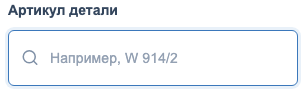
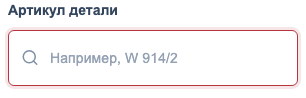
design: add restrained red accents to the catalog

diff --git a/src/app/App.module.scss b/src/app/App.module.scss
@@ -5,9 +5,9 @@
 }
 .header {
   height: 76px;
-  background: #172437;
+  background: #20252c;
   color: #fff;
-  border-bottom: 1px solid #26374d;
+  border-bottom: 1px solid #343c47;
 }
 .headerInner,
 .main,
@@ -36,8 +36,8 @@
   font-size: 14px;
   font-weight: 450;
   letter-spacing: 1.8px;
-  color: #9aadc5;
-  border-left: 1px solid #465369;
+  color: #a7afb9;
+  border-left: 1px solid #49515c;
   padding-left: 11px;
 }
 .currentPage {
@@ -45,7 +45,7 @@
   display: flex;
   align-items: center;
   gap: 10px;
-  border-bottom: 3px solid #7eb3ef;
+  border-bottom: 3px solid #e68b91;
   padding-inline: 4px;
   color: #e1ebf8;
   font-size: 15px;
@@ -80,8 +80,8 @@
   font-weight: 500;
   color: #fff;
   &:hover {
-    background: #24374f;
-    border-color: #7494b6;
+    background: #303740;
+    border-color: #a86d75;
   }
 }
 .main {
@@ -133,7 +133,7 @@
     align-items: center;
     gap: 8px;
     min-height: 44px;
-    color: #245ea3;
+    color: var(--accent);
   }
 }
 .footer {

diff --git a/src/features/parts/searchParts/SearchPartsFeature.module.scss b/src/features/parts/searchParts/SearchPartsFeature.module.scss
@@ -50,8 +50,8 @@
   border-radius: 6px;
   background: #fff;
   &:focus-within {
-    border-color: #3b78bb;
-    box-shadow: 0 0 0 3px #3b82c41c;
+    border-color: var(--accent);
+    box-shadow: 0 0 0 3px var(--accent-ring);
   }
   > svg {
     width: 18px;
@@ -123,9 +123,9 @@
       width: 11px;
     }
     &:hover {
-      color: #245ea3;
-      border-color: #9bb8d8;
-      background: #eef5fd;
+      color: var(--accent);
+      border-color: var(--accent-border);
+      background: var(--accent-soft);
     }
   }
 }
@@ -171,7 +171,7 @@
     width: 12px;
   }
   &:hover {
-    color: #245ea3;
+    color: var(--accent);
   }
 }
 .demoStatus {
@@ -245,9 +245,9 @@
     border-color: #d5e7df;
   }
   &.active {
-    color: #245ea3;
-    background: #eaf2fc;
-    border-color: #d3e2f5;
+    color: var(--accent);
+    background: var(--accent-soft);
+    border-color: var(--accent-border);
   }
 }
 .countBadge {

diff --git a/src/app/global.scss b/src/app/global.scss
@@ -51,7 +51,11 @@
 
 :root {
   --surface: #fff;
-  --accent: #245ea3;
+  --accent: #b63540;
+  --accent-hover: #922b34;
+  --accent-soft: #fff3f4;
+  --accent-border: #eac2c7;
+  --accent-ring: #b635401f;
   --border: #dce3eb;
   --muted: #64748b;
   font-family: "Golos Text", Arial, sans-serif;
@@ -108,7 +112,7 @@ a:focus-visible,
 input:focus-visible,
 select:focus-visible,
 [tabindex]:focus-visible {
-  outline: 3px solid #3b82c4;
+  outline: 3px solid var(--accent);
 }
 @media (prefers-reduced-motion: reduce) {
   *,

diff --git a/index.html b/index.html
@@ -3,7 +3,7 @@
   <head>
     <meta charset="UTF-8" />
     <meta name="viewport" content="width=device-width, initial-scale=1.0" />
-    <meta name="theme-color" content="#172437" />
+    <meta name="theme-color" content="#20252c" />
     <meta
       name="description"
       content="Подбор автозапчастей и аналогов Favorit-parts по артикулу и производителю"

diff --git a/src/features/parts/searchParts/ui/OffersPagination.module.scss b/src/features/parts/searchParts/ui/OffersPagination.module.scss
@@ -26,11 +26,11 @@
   border: 1px solid #dce4ee;
   border-radius: 5px;
   background: #fff;
-  color: #456789;
+  color: #526173;
   &:hover:not(:disabled) {
-    color: #245ea3;
-    border-color: #9cb9d9;
-    background: #f3f7fc;
+    color: var(--accent);
+    border-color: var(--accent-border);
+    background: var(--accent-soft);
   }
   &:disabled {
     opacity: 0.35;

diff --git a/src/entities/parts/ui/OfferRow.module.scss b/src/entities/parts/ui/OfferRow.module.scss
@@ -14,7 +14,7 @@
     border-bottom: 0;
   }
   &:hover {
-    background: #f1f6fc;
+    background: #fffafa;
   }
   strong {
     color: #24364e;
@@ -51,8 +51,8 @@
   color: #6d7e95;
   font-size: 14px;
   &.original {
-    color: #3b6a9b;
-    background: #eaf2fc;
+    color: var(--accent);
+    background: var(--accent-soft);
   }
 }
 .muted {

diff --git a/src/features/parts/searchParts/ui/OffersTable.module.scss b/src/features/parts/searchParts/ui/OffersTable.module.scss
@@ -38,7 +38,7 @@
     width: 17px;
     height: 17px;
     margin: 0;
-    accent-color: #326fb0;
+    accent-color: var(--accent);
   }
 }
 .sort {
@@ -53,7 +53,7 @@
     border: 1px solid #dfe6ef;
     border-radius: 5px;
     background: #f9fbfd;
-    color: #435e7d;
+    color: #4b596b;
     font-size: 16px;
     cursor: pointer;
   }

diff --git a/src/entities/parts/ui/BrandCard.module.scss b/src/entities/parts/ui/BrandCard.module.scss
@@ -23,10 +23,10 @@
     background: #f5f8fc;
   }
   &.selected {
-    border-left-color: #3676b9;
-    background: #eef4fc;
+    border-left-color: var(--accent);
+    background: var(--accent-soft);
     > svg {
-      color: #2864a6;
+      color: var(--accent);
     }
   }
 }

diff --git a/README.md b/README.md
@@ -83,7 +83,7 @@ npm run test:vitals
 
 ## Дизайн рабочего приложения
 
-Интерфейс оформлен как строгая B2B-платформа подбора: графитовая шапка, белые рабочие поверхности, сдержанные синие акценты, единые рамки и отступы. Производители отображаются списком с выделением выбранного бренда; таблица использует контрастные заголовки, чередование строк и отдельную типографику цен. Декоративные монограммы и лишняя вложенность панелей убраны.
+Интерфейс оформлен как строгая B2B-платформа подбора: графитовая шапка, белые рабочие поверхности, сдержанные красные акценты, единые рамки и отступы. Производители отображаются списком с выделением выбранного бренда тонкой красной полосой; таблица использует контрастные заголовки, чередование строк и отдельную типографику цен. Декоративные монограммы и лишняя вложенность панелей убраны.
 
 На экранах от 1100 px поиск и список производителей находятся в левой колонке, выдача занимает основную область справа. На планшетах и телефонах секции последовательно складываются в одну колонку, а предложения переходят в карточки. Все бренды доступны в прокручиваемом списке; все предложения — через пагинацию.
 
@@ -94,3 +94,5 @@ npm run test:vitals
 ## Читаемость
 
 Основной текст и производители — 16 px, подписи, артикулы и второстепенные данные — от 14 px, цены — 20–22 px. Мобильные правила не уменьшают эти размеры. Увеличены межстрочные интервалы, высота строк и карточек, ширина панели поиска и контраст приглушённого текста. Если фильтры или навигация не помещаются в строку, они переносятся, сохраняя размер шрифта.
+
+Акцентные цвета задаются CSS-переменными `--accent`, `--accent-hover`, `--accent-soft`, `--accent-border`, `--accent-ring`. Красный используется для активной навигации, выбора, фокуса и интерактивных состояний. Основной текст и цены остаются нейтральными, наличие — зелёным.
